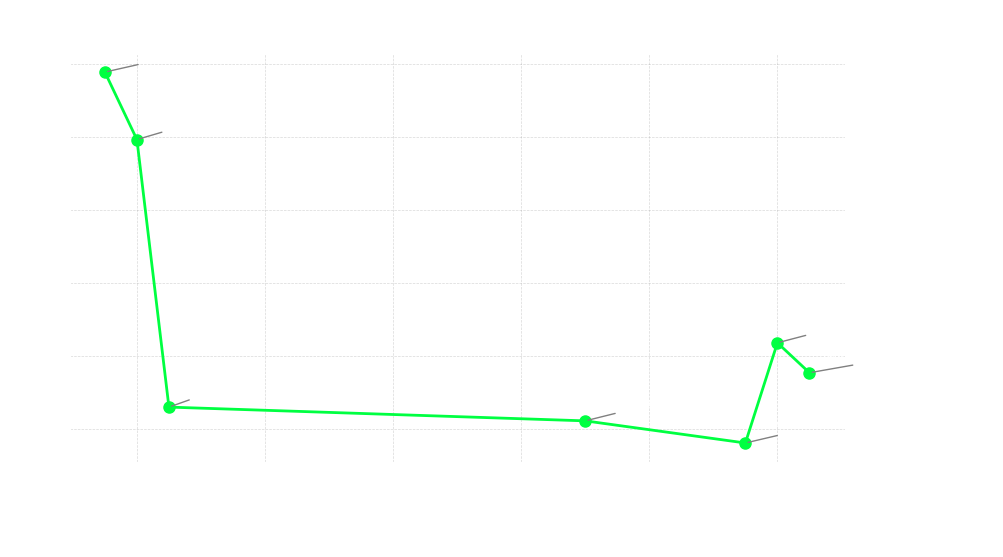
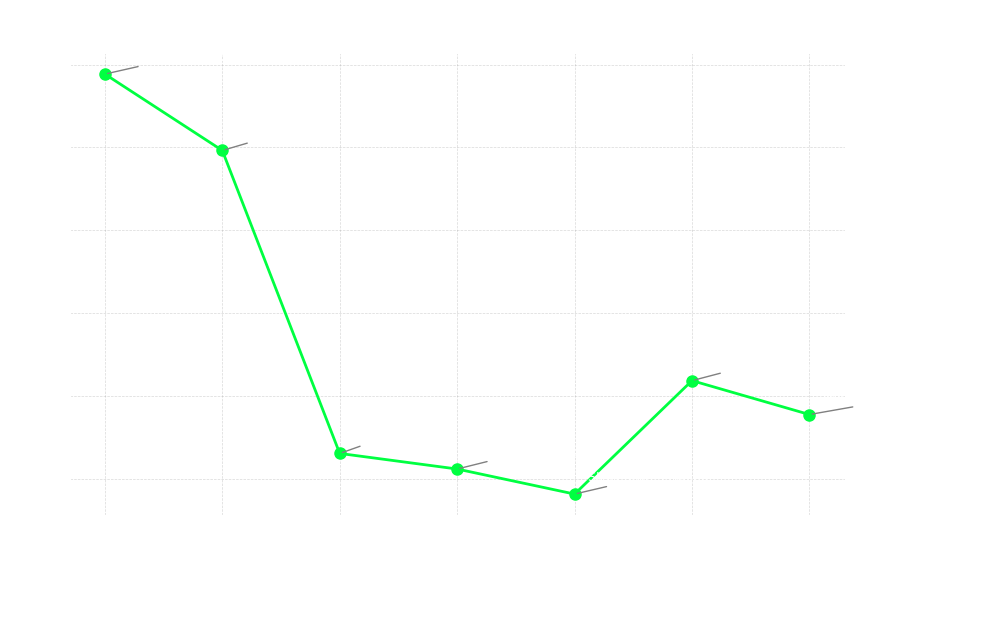
New Graph

diff --git a/gen_graph.py b/gen_graph.py
@@ -1,8 +1,6 @@
 # NOTE: This is AI generated, just a nice little graphic
 
 import matplotlib.pyplot as plt
-import matplotlib.dates as mdates
-from datetime import datetime
 
 # --- YOUR DATA HERE ---
 # Format: ("YYYY-MM-DD", time_in_seconds, "Label/Commit Name")
@@ -18,24 +16,25 @@ data = [
 # ----------------------
 
 # Unpack data
-dates = [datetime.strptime(d[0], "%Y-%m-%d") for d in data]
+dates = [d[0] for d in data] # Keep as strings, not datetime objects
 times = [d[1] for d in data]
 labels = [d[2] for d in data]
+x_indices = range(len(data)) # Create linear indices (0, 1, 2...)
 
 # Style: Dark background for that "Terminal" look
 plt.style.use('dark_background')
 fig, ax = plt.subplots(figsize=(10, 6))
 
-# Plot the line
-ax.plot(dates, times, color='#00ff41', marker='o', linewidth=2, markersize=8) # Matrix Green
+# Plot the line against the linear indices (not dates)
+ax.plot(x_indices, times, color='#00ff41', marker='o', linewidth=2, markersize=8)
 
 # Add background grid
 ax.grid(color='gray', linestyle='--', linewidth=0.5, alpha=0.3)
 
-# Annotate points (The "Why")
+# Annotate points
 for i, txt in enumerate(labels):
     ax.annotate(txt, 
-                (dates[i], times[i]), 
+                (x_indices[i], times[i]), 
                 xytext=(10, 10), 
                 textcoords='offset points',
                 fontsize=9,
@@ -47,9 +46,9 @@ ax.set_title('Solver Optimization - 50 answers, full guesses', fontsize=16, font
 ax.set_ylabel('Benchmark Time (seconds)', fontsize=12)
 ax.set_xlabel('Date / Commit', fontsize=12)
 
-# Format X-axis dates nicely
-fig.autofmt_xdate()
-ax.fmt_xdate = mdates.DateFormatter('%Y-%m-%d')
+# Set X-ticks to be the linear indices, but label them with the date strings
+ax.set_xticks(x_indices)
+ax.set_xticklabels(dates, rotation=45, ha='right')
 
 # Save transparent for easy README embedding
 plt.savefig('performance_graph.png', transparent=True, dpi=100, bbox_inches='tight')
